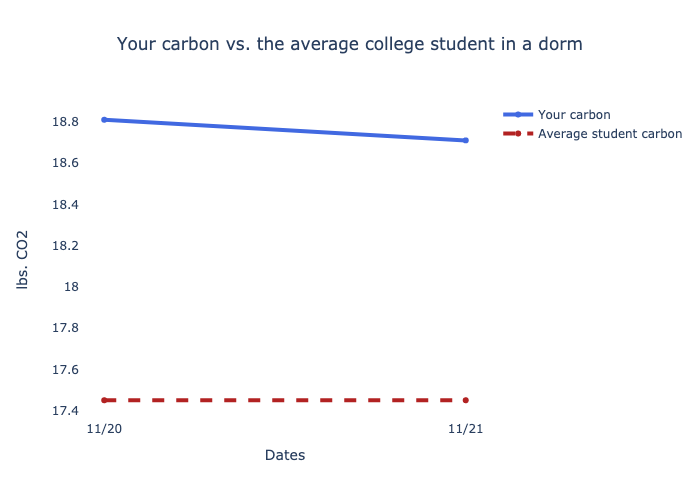
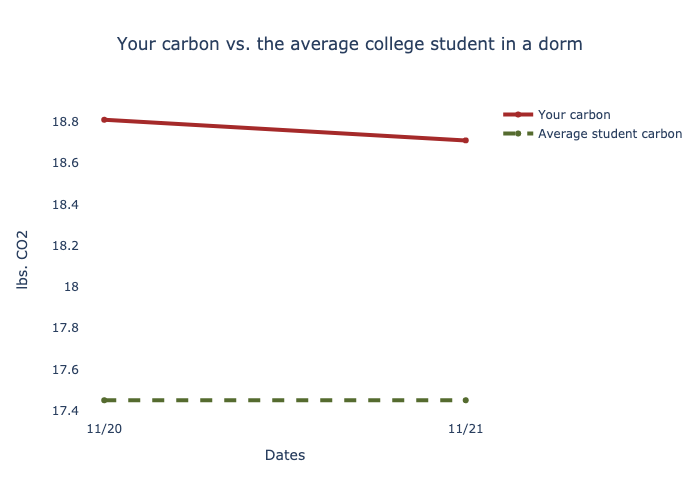
graph color changes

Changed region(s): [[0.15, 0.21, 0.69, 0.3], [0.15, 0.78, 0.66, 0.81], [0.72, 0.21, 0.78, 0.27]]

diff --git a/avg_carbon.py b/avg_carbon.py
@@ -16,8 +16,8 @@ def avg_carbon(usr_carbon, userID):
 
     acarbon = [DAILY_AVG] * len(dates)
     fig = go.Figure()
-    fig.add_trace(go.Scatter(name="Your carbon", x=dates, y=dcarbon, line=dict(color='royalblue', width=4)))
-    fig.add_trace(go.Scatter(name="Average student carbon", x=dates, y=acarbon, line=dict(color='firebrick', width=4, dash='dash')))
+    fig.add_trace(go.Scatter(name="Your carbon", x=dates, y=dcarbon, line=dict(color='brown', width=4)))
+    fig.add_trace(go.Scatter(name="Average student carbon", x=dates, y=acarbon, line=dict(color='darkolivegreen', width=4, dash='dash')))
 
     fig.update_layout(
         {'plot_bgcolor':'rgba(0, 0, 0, 0)',
